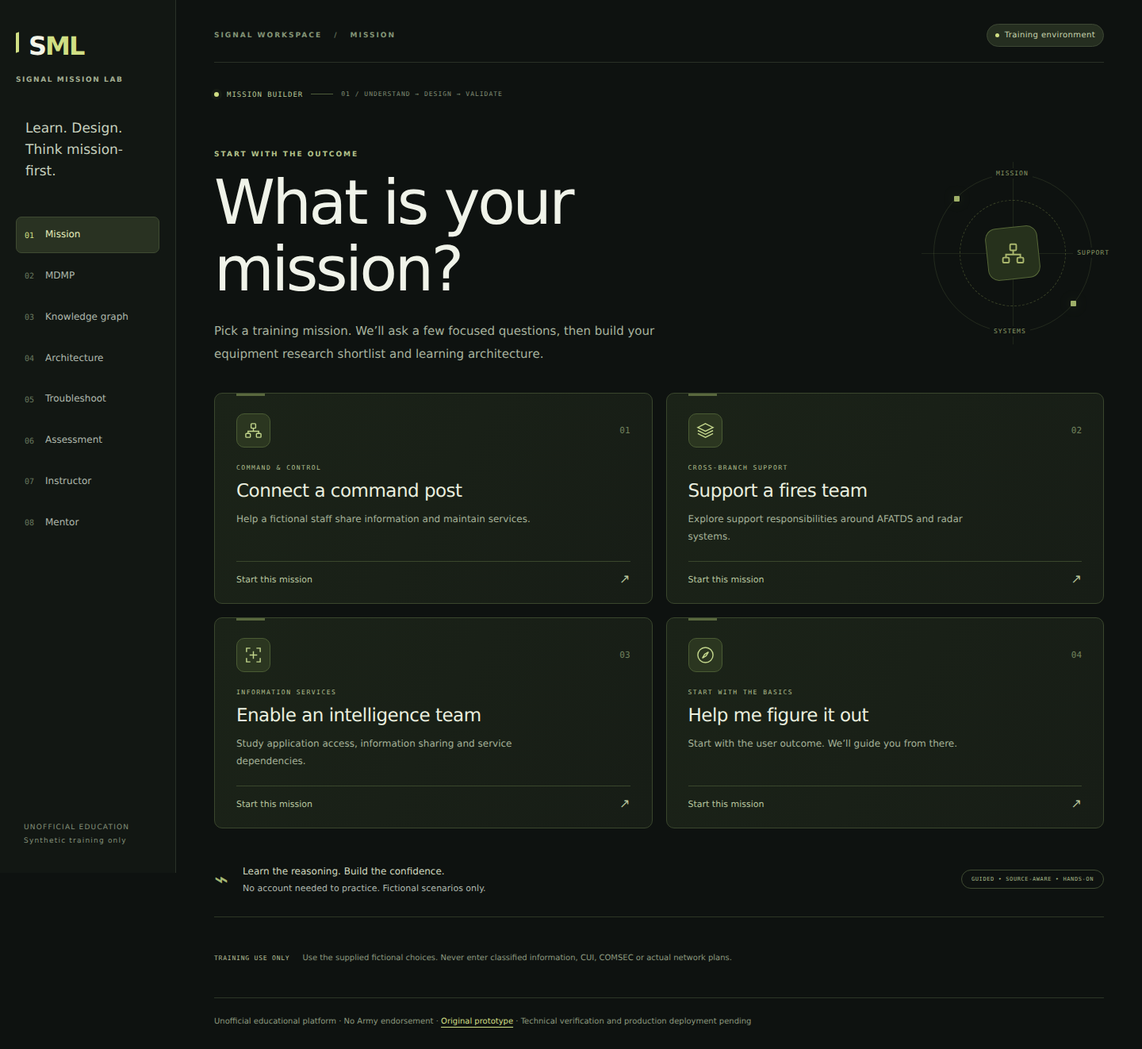
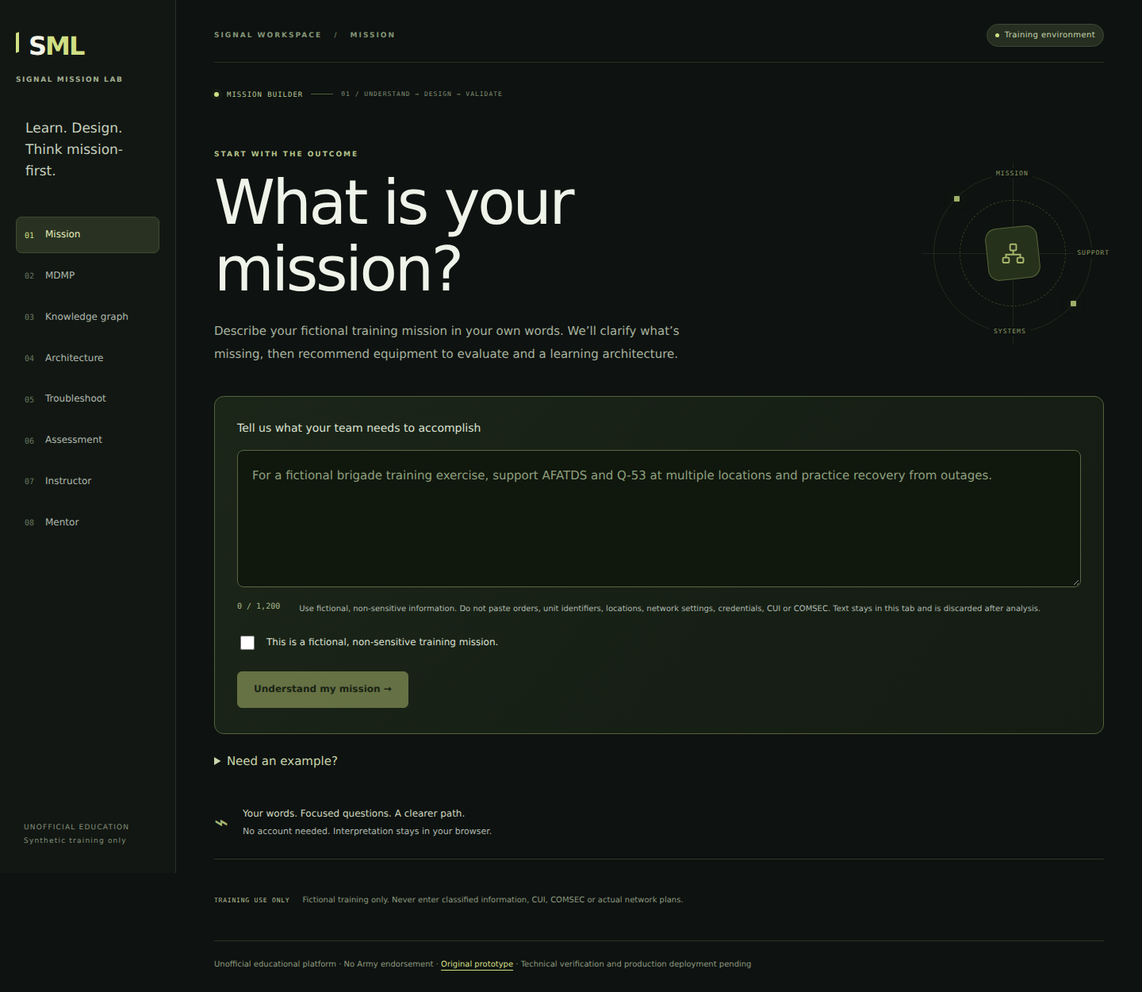
Add text-first mission intake with targeted clarification and local screening

diff --git a/web/src/mission.tsx b/web/src/mission.tsx
@@ -1,6 +1,7 @@
 import React,{useRef,useState} from 'react';
 import catalog from '../../data/catalog.json';
 import {missionOptions,systemChoices,recommendation,type Mission,type Echelon,type Setting,type Priority} from './mission-model';
+import {interpretDescription,screenDescription,nextClarification,type Draft} from './mission-intake';
 
 type Props={onExplore:(id:string)=>void;onArchitecture:()=>void;onMDMP:()=>void};
 function Glyph({kind}:{kind:string}){
@@ -8,26 +9,40 @@ function Glyph({kind}:{kind:string}){
  return <svg viewBox="0 0 24 24" fill="none" stroke="currentColor" strokeWidth="1.5" aria-hidden="true">{paths[kind]||paths.network}</svg>;
 }
 export function MissionGuide({onExplore,onArchitecture,onMDMP}:Props){
- const [stage,setStage]=useState(0),[mission,setMission]=useState<Mission|null>(null),[echelon,setEchelon]=useState<Echelon|null>(null),[systems,setSystems]=useState<string[]>([]),[setting,setSetting]=useState<Setting|null>(null),[priority,setPriority]=useState<Priority|null>(null);
+ const [stage,setStage]=useState(0),[answers,setAnswers]=useState<Draft>({}),[description,setDescription]=useState(''),[attested,setAttested]=useState(false),[error,setError]=useState(''),[inferred,setInferred]=useState(false),[history,setHistory]=useState<number[]>([0]);
+ const {mission=null,echelon=null,systems=[],setting=null,priority=null}=answers;
  const heading=useRef<HTMLHeadingElement>(null);
- function go(next:number){setStage(next);requestAnimationFrame(()=>heading.current?.focus());}
- function chooseMission(next:Mission){if(next!==mission){setSystems([]);setEchelon(null);setSetting(null);setPriority(null);}setMission(next);go(1);}
- function reset(){setMission(null);setEchelon(null);setSystems([]);setSetting(null);setPriority(null);go(0);}
+ function go(next:number){setStage(next);setHistory(previous=>previous[previous.length-1]===next?previous:[...previous,next]);requestAnimationFrame(()=>heading.current?.focus());}
+ function back(){const previous=history.slice(0,-1);setHistory(previous.length?previous:[0]);setStage(previous[previous.length-1]??0);requestAnimationFrame(()=>heading.current?.focus());}
+ function update(patch:Draft){const next={...answers,...patch};setAnswers(next);go(nextClarification(next));}
+ function chooseMission(next:Mission){update({mission:next});}
+ function reset(){setAnswers({});setDescription('');setAttested(false);setInferred(false);setError('');setHistory([0]);setStage(0);requestAnimationFrame(()=>heading.current?.focus());}
+ function analyze(){
+  if(!attested){setError('Confirm that this is fictional, non-sensitive training.');return;}
+  const issue=screenDescription(description);
+  if(issue){setDescription('');setError(issue);return;}
+  const parsed=interpretDescription(description);setDescription('');setAnswers(parsed.answers);setInferred(true);setError('');go(nextClarification(parsed.answers));
+ }
  const selectedMission=missionOptions.find(m=>m.id===mission);
  const result=stage===5&&mission&&echelon&&setting&&priority?recommendation({mission,echelon,systems,setting,priority}):null;
- const titles=['What is your mission?','Who are you supporting?',mission==='fires'?'Which systems are in your exercise?':mission==='explore'?'What do your users need to do?':'Which systems should we study?',mission==='fires'?'How is the fictional fires team distributed?':'What does the training environment look like?','What matters most in this exercise?','Your mission. A clearer path.'];
- const descriptions=['Pick a training mission. We’ll ask a few focused questions, then build your equipment research shortlist and learning architecture.','Choose a fictional echelon to frame staff coordination and learning scope.','Select what your fictional team needs. You can choose more than one.','We’ll adapt the transport and support concepts to the exercise.','Choose a learning priority. This helps focus your validation and troubleshooting.','A starting point for study, discussion and validation—not a field-ready communications plan.'];
+ const titles=['What is your mission?','Who are you supporting?',mission==='fires'?'Which systems are in your exercise?':mission==='explore'?'What do your users need to do?':'Which systems should we study?',mission==='fires'?'How is the fictional fires team distributed?':'What does the training environment look like?','What matters most in this exercise?','Your mission. A clearer path.','What is the primary mission focus?'];
+ const descriptions=['Describe your fictional training mission in your own words. We’ll clarify what’s missing, then recommend equipment to evaluate and a learning architecture.','Choose a fictional echelon to frame staff coordination and learning scope.','Select what your fictional team needs. You can choose more than one.','We’ll adapt the transport and support concepts to the exercise.','Choose a learning priority. This helps focus your validation and troubleshooting.','A starting point for study, discussion and validation—not a field-ready communications plan.','Your description spans several areas or needs more context. Choose the main outcome to guide the recommendations.'];
  return <div className="mission-guide">
  <div className="mission-kicker"><span className="live-dot"/>MISSION BUILDER<span className="kicker-line"/><span>01 / UNDERSTAND → DESIGN → VALIDATE</span></div>
- {stage>0&&<div className="journey"><button className="text-button" onClick={()=>go(stage-1)}>← Back</button><span>{stage===5?'BRIEF READY':`QUESTION ${stage+1} OF 5`}</span><button className="text-button" onClick={reset}>Start over</button></div>}
+ {stage>0&&<div className="journey"><button className="text-button" onClick={back}>← Back</button><span>{stage===5?'BRIEF READY':'CLARIFY YOUR MISSION'}</span><button className="text-button" onClick={reset}>Start over</button></div>}
  <div className="mission-hero"><div><p className="eyebrow">{stage===0?'START WITH THE OUTCOME':selectedMission?.tag}</p><h1 ref={heading} tabIndex={-1}>{titles[stage]}</h1><p className="mission-intro">{descriptions[stage]}</p></div>{stage===0&&<div className="signal-mark" aria-hidden="true"><div className="signal-orbit orbit-one"/><div className="signal-orbit orbit-two"/><div className="signal-center"><Glyph kind="network"/></div><span className="orbit-label label-a">MISSION</span><span className="orbit-label label-b">SYSTEMS</span><span className="orbit-label label-c">SUPPORT</span><i className="orbit-point point-one"/><i className="orbit-point point-two"/></div>}</div>
- {stage>0&&stage<5&&<div className="progress-track" role="progressbar" aria-label="Mission questions" aria-valuemin={0} aria-valuemax={5} aria-valuenow={stage+1}>{[0,1,2,3,4].map(i=><span key={i} className={i<=stage?'filled':''}/>)}</div>}
- {stage===0&&<><div className="mission-options">{missionOptions.map((m,i)=><button className="mission-card" key={m.id} onClick={()=>chooseMission(m.id)}><div className="mission-card-top"><span className="icon-box"><Glyph kind={m.icon}/></span><span className="card-index">0{i+1}</span></div><span className="option-tag">{m.tag}</span><strong>{m.title}</strong><span className="option-detail">{m.detail}</span><span className="card-action">Start this mission <span>↗</span></span></button>)}</div><div className="home-footnote"><span className="mini-chevron">⌁</span><div><strong>Learn the reasoning. Build the confidence.</strong><p>No account needed to practice. Fictional scenarios only.</p></div><span className="pill-outline">GUIDED • SOURCE-AWARE • HANDS-ON</span></div></>}
- {stage===1&&<div className="answer-options">{[{id:'battalion',title:'Battalion',detail:'Study users, local support and coordination with higher headquarters.'},{id:'brigade',title:'Brigade',detail:'Study coordination across a fictional headquarters and subordinate teams.'},{id:'division',title:'Division',detail:'Study broader staff coordination and shared-service dependencies.'}].map(o=><button key={o.id} className="answer-card" aria-pressed={echelon===o.id} onClick={()=>{setEchelon(o.id as Echelon);go(2);}}><span className="answer-symbol">{o.id==='battalion'?'Ⅱ':o.id==='brigade'?'×':'××'}</span><strong>{o.title}</strong><span>{o.detail}</span><b>→</b></button>)}</div>}
- {stage===2&&mission&&<><div className="answer-options">{systemChoices[mission].map(o=><button className="answer-card" key={o.id} aria-pressed={systems.includes(o.id)} onClick={()=>setSystems(systems.includes(o.id)?systems.filter(s=>s!==o.id):[...systems,o.id])}><span className="selection-dot">{systems.includes(o.id)?'✓':'+'}</span><strong>{o.title}</strong><span>{o.detail}</span></button>)}</div><div className="wizard-actions"><span>{systems.length} selected</span><button className="primary-button" disabled={!systems.length} onClick={()=>go(3)}>Continue <span>→</span></button></div></>}
- {stage===3&&<div className="answer-options">{[{id:'single',title:'One training location',detail:'Focus on local application, network and user-access dependencies.'},{id:'distributed',title:'Multiple fictional locations',detail:'Add inter-site transport concepts and support coordination.'},{id:'disrupted',title:'Services will be interrupted',detail:'Explore recovery, dependencies and alternate communications categories.'}].map(o=><button className="answer-card" key={o.id} aria-pressed={setting===o.id} onClick={()=>{setSetting(o.id as Setting);go(4);}}><span className="selection-dot">→</span><strong>{o.title}</strong><span>{o.detail}</span></button>)}</div>}
- {stage===4&&<div className="answer-options">{[{id:'availability',title:'Keep services usable',detail:'Focus on an observable user outcome and service health.'},{id:'access',title:'Get the right users connected',detail:'Focus on identity, authorized access and application support.'},{id:'continuity',title:'Recover when something fails',detail:'Focus on restoration evidence and continuity concepts.'}].map(o=><button className="answer-card" key={o.id} aria-pressed={priority===o.id} onClick={()=>{setPriority(o.id as Priority);go(5);}}><span className="selection-dot">→</span><strong>{o.title}</strong><span>{o.detail}</span></button>)}</div>}
+ {inferred&&stage!==0&&<div className="intake-readback"><strong>Our understanding</strong><p>{[selectedMission?.title,echelon?echelon[0].toUpperCase()+echelon.slice(1):null,systems.length?systems.map(id=>catalog.equipment.find(e=>e.id===id)?.name||id).join(' · '):null,setting?({single:'One location',distributed:'Multiple locations',disrupted:'Interrupted services'}[setting]):null,priority?({availability:'Service availability',access:'Authorized access',continuity:'Recovery and continuity'}[priority]):null].filter(Boolean).join(' / ')||'We need a little more detail.'}</p><span>Local rule-based interpretation. Check the details before relying on the learning brief.</span><div className="steps"><button onClick={()=>go(6)}>Change focus</button><button onClick={()=>go(1)}>Change echelon</button><button onClick={()=>go(2)}>Change systems</button><button onClick={()=>go(3)}>Change environment</button><button onClick={()=>go(4)}>Change priority</button></div></div>}
+ {stage===0&&<><section className="mission-intake"><label htmlFor="mission-description">Tell us what your team needs to accomplish</label><textarea id="mission-description" value={description} maxLength={1200} rows={5} autoComplete="off" spellCheck={false} placeholder="For a fictional brigade training exercise, support AFATDS and Q-53 at multiple locations and practice recovery from outages." onChange={e=>{setDescription(e.target.value);setError('');}} aria-describedby="mission-privacy"/><div className="intake-meta"><span>{description.length} / 1,200</span><p id="mission-privacy">Use fictional, non-sensitive information. Do not paste orders, unit identifiers, locations, network settings, credentials, CUI or COMSEC. Text stays in this tab and is discarded after analysis.</p></div><label className="toggle"><input type="checkbox" checked={attested} onChange={e=>setAttested(e.target.checked)}/>This is a fictional, non-sensitive training mission.</label>{error&&<p role="alert">{error}</p>}<button className="primary-button" disabled={!attested||description.trim().length<12} onClick={analyze}>Understand my mission →</button></section><details className="mission-examples"><summary>Need an example?</summary>{[
+ ['Command post','For a fictional battalion exercise, support CPCE at one training location and focus on user access.'],
+ ['Fires team','For a fictional brigade training exercise, support AFATDS and Q-53 at multiple locations and practice recovery from outages.'],
+ ['Intelligence team','For a fictional division exercise, study DCGS-A at one location and focus on authentication.']
+ ].map(([title,text])=><button key={title} onClick={()=>{setDescription(text);setAttested(false);setError('');}}>{title} example</button>)}</details><div className="home-footnote"><span className="mini-chevron">⌁</span><div><strong>Your words. Focused questions. A clearer path.</strong><p>No account needed. Interpretation stays in your browser.</p></div></div></>}
+ {stage===6&&<div className="mission-options">{missionOptions.map((m,i)=><button className="mission-card" key={m.id} onClick={()=>chooseMission(m.id)}><div className="mission-card-top"><span className="icon-box"><Glyph kind={m.icon}/></span><span className="card-index">0{i+1}</span></div><strong>{m.title}</strong><span className="option-detail">{m.detail}</span></button>)}</div>}
+ {stage===1&&<div className="answer-options">{[{id:'battalion',title:'Battalion',detail:'Study users, local support and coordination with higher headquarters.'},{id:'brigade',title:'Brigade',detail:'Study coordination across a fictional headquarters and subordinate teams.'},{id:'division',title:'Division',detail:'Study broader staff coordination and shared-service dependencies.'}].map(o=><button key={o.id} className="answer-card" aria-pressed={echelon===o.id} onClick={()=>{update({echelon:o.id as Echelon});}}><span className="answer-symbol">{o.id==='battalion'?'Ⅱ':o.id==='brigade'?'×':'××'}</span><strong>{o.title}</strong><span>{o.detail}</span><b>→</b></button>)}</div>}
+ {stage===2&&mission&&<><div className="answer-options">{[...systemChoices[mission],...Object.values(systemChoices).flat().filter((o,index,all)=>!systemChoices[mission].some(s=>s.id===o.id)&&all.findIndex(x=>x.id===o.id)===index)].map(o=><button className="answer-card" key={o.id} aria-pressed={systems.includes(o.id)} onClick={()=>setAnswers({...answers,systems:systems.includes(o.id)?systems.filter(s=>s!==o.id):[...systems,o.id]})}><span className="selection-dot">{systems.includes(o.id)?'✓':'+'}</span><strong>{o.title}</strong><span>{o.detail}</span></button>)}</div><div className="wizard-actions"><span>{systems.length} selected</span><button className="text-button" onClick={()=>update({systems:[systemChoices[mission][0].id]})}>Suggest a starting point</button><button className="primary-button" disabled={!systems.length} onClick={()=>update({systems})}>Continue <span>→</span></button></div></>}
+ {stage===3&&<div className="answer-options">{[{id:'single',title:'One training location',detail:'Focus on local application, network and user-access dependencies.'},{id:'distributed',title:'Multiple fictional locations',detail:'Add inter-site transport concepts and support coordination.'},{id:'disrupted',title:'Services will be interrupted',detail:'Explore recovery, dependencies and alternate communications categories.'}].map(o=><button className="answer-card" key={o.id} aria-pressed={setting===o.id} onClick={()=>{update({setting:o.id as Setting});}}><span className="selection-dot">→</span><strong>{o.title}</strong><span>{o.detail}</span></button>)}</div>}
+ {stage===4&&<div className="answer-options">{[{id:'availability',title:'Keep services usable',detail:'Focus on an observable user outcome and service health.'},{id:'access',title:'Get the right users connected',detail:'Focus on identity, authorized access and application support.'},{id:'continuity',title:'Recover when something fails',detail:'Focus on restoration evidence and continuity concepts.'}].map(o=><button className="answer-card" key={o.id} aria-pressed={priority===o.id} onClick={()=>{update({priority:o.id as Priority});}}><span className="selection-dot">→</span><strong>{o.title}</strong><span>{o.detail}</span></button>)}</div>}
  {result&&<div className="mission-results"><div className="brief-banner"><div><span className="option-tag">SYNTHETIC MISSION BRIEF</span><h3>{selectedMission?.title}</h3><p>{result.summary}</p></div><div><small>LEARNING PRIORITY</small><strong>{result.emphasis}</strong></div></div><div className="result-columns"><section><div className="section-label"><span>01</span><h3>Equipment to evaluate</h3></div><p>Selected systems and teaching categories, with a reason for each.</p><div className="equipment-shortlist">{result.equipment.map((item,i)=>{const e=catalog.equipment.find(e=>e.id===item.id)!;return <article key={item.id}><div className="shortlist-heading"><span className="shortlist-number">0{i+1}</span><div><h4>{e.name}</h4><small>{e.category}</small></div><span className="status-tag">{item.id==='q53'?'Purpose source available':'Overview only'}</span></div><p>{item.reason}</p><button className="text-button" onClick={()=>onExplore(item.id)}>Review evidence & unknowns ↗</button></article>})}</div><p className="muted">No quantities, models, settings or compatibility claims are inferred.</p></section><section className="architecture-preview"><div className="section-label"><span>02</span><h3>Your learning architecture</h3></div><p>Generic layers to investigate—not equipment interconnection instructions.</p><div className="architecture-stack" role="img" aria-label={'Conceptual dependency model: '+result.services.map(s=>s.title+': '+s.detail).join('; ')}>{result.services.map((s,i)=><React.Fragment key={s.title}>{i>0&&<div className="stack-link" aria-hidden="true">↑</div>}<div className={'stack-node stack-'+i}><span className="stack-code">L0{i+1}</span><div><strong>{s.title}</strong><span>{s.detail}</span></div><span className="node-light"/></div></React.Fragment>)}</div>{systems.includes('q53')&&<div className="unknown-note"><strong>Radar interface: unverified</strong><p>AN/TPQ-53 remains a supported-system study topic. No radar-to-application link is represented.</p></div>}<button className="primary-button" onClick={onArchitecture}>Test service dependencies →</button></section></div><section><div className="section-label"><span>03</span><h3>Validate before you decide</h3></div><div className="review-questions">{result.questions.map((q,i)=><div key={q}><span>0{i+1}</span><p>{q}</p></div>)}</div><details><summary>Recommendation scope and limitations</summary><ul>{result.limitations.map(x=><li key={x}>{x}</li>)}</ul></details><button className="text-button" onClick={onMDMP}>Take this reasoning into MDMP practice →</button></section></div>}
- <div className="training-boundary"><span>TRAINING USE ONLY</span><p>Use the supplied fictional choices. Never enter classified information, CUI, COMSEC or actual network plans.</p></div>
+ <div className="training-boundary"><span>TRAINING USE ONLY</span><p>Fictional training only. Never enter classified information, CUI, COMSEC or actual network plans.</p></div>
  </div>;
 }

diff --git a/web/src/mission-intake.ts b/web/src/mission-intake.ts
@@ -1,0 +1,52 @@
+/** Local, bounded language matching for fictional training. Not an LLM or a DLP system. */
+import type {Answers,Mission,Echelon,Setting,Priority} from './mission-model';
+export type Draft=Partial<Answers>;
+export type Field=keyof Answers;
+export type Intake={answers:Draft;ambiguous:Field[]};
+export function screenDescription(text:string):string|null{
+ const value=text.normalize('NFKC');
+ if(value.length<12||value.length>1200)return 'Use between 12 and 1,200 characters to describe a fictional training outcome.';
+ if(/[\u0000-\u0008\u000b\u000c\u000e-\u001f\u202a-\u202e\u2066-\u2069]/u.test(value))return 'Remove control or hidden formatting characters.';
+ const restricted=[/\b(?:CUI|COMSEC|SIPR(?:NET)?|JWICS|TOP\s*SECRET|SECRET|CONFIDENTIAL|NOFORN|FOUO|OPORD)\b/i,/\b(?:password|passwd|api[_ -]?key|private[_ -]?key|bearer|credential)\b/i,/\b(?:\d{1,3}\.){3}\d{1,3}\b/,/\b(?:[a-f\d]{1,4}:){2,}[a-f\d:]*\b/i,/\b\d+(?:\.\d+)?\s*(?:MHz|GHz|kHz)\b/i,/[+-]?\d{1,3}\.\d{3,}\s*[,/]\s*[+-]?\d{1,3}\.\d{3,}/,/\b\d{1,2}[C-HJ-NP-X]\s*[A-HJ-NP-Z]{2}\s*\d{4,10}\b/i,/\b(?:actual|real|live)\s+(?:operational\s+)?(?:mission|operation|network|deployment|unit)\b/i,/\b(?:ignore\s+(?:all\s+)?(?:previous|prior|system)|system\s*prompt|bypass\s+(?:rules|safeguards))\b/i,/https?:\/\//i];
+ return restricted.some(pattern=>pattern.test(value))?'This may contain sensitive details or unsupported instructions. The text was cleared. Use a fictional outcome without unit identifiers, operational plans, addresses, frequencies, credentials or controlled material.':null;
+}
+function positive(text:string,expression:RegExp):boolean{
+ for(const match of text.matchAll(new RegExp(expression.source,'gi'))){
+  const before=text.slice(Math.max(0,match.index!-45),match.index);
+  if(!/\b(?:no|not|without|excluding|exclude|don['’]t|do not)\b[^,.;!?]{0,32}$/i.test(before))return true;
+ }
+ return false;
+}
+export function interpretDescription(text:string):Intake{
+ const issue=screenDescription(text);if(issue)throw Error(issue);
+ const value=text.normalize('NFKC');const answers:Draft={};const ambiguous:Field[]=[];
+ const systems=[['afatds',/\bAFATDS\b/],['q53',/\b(?:AN[\s/-]*)?(?:TPQ|Q)[\s-]*53\b/],['dcgsa',/\bDCGS[\s-]*A\b/],['cpce',/\bCPCE\b/],['radio',/\b(?:radios?|voice communication)\b/]].filter(([,pattern])=>positive(value,pattern as RegExp)).map(([id])=>id as string);
+ if(systems.length)answers.systems=systems;
+ const domains:Mission[]=[];
+ if(systems.includes('afatds')||systems.includes('q53')||positive(value,/\b(?:artillery|fires|radar)\b/))domains.push('fires');
+ if(systems.includes('dcgsa')||positive(value,/\b(?:intelligence|intel)\b/))domains.push('intelligence');
+ if(!domains.length&&(systems.includes('cpce')||systems.includes('radio')||positive(value,/\b(?:command post|headquarters|staff communications)\b/)))domains.push('command');
+ if(domains.length===1)answers.mission=domains[0];else if(domains.length>1)ambiguous.push('mission');
+ const levelPatterns:Record<Echelon,RegExp>={battalion:/\b(?:battalions?|bn)\b/,brigade:/\b(?:brigades?|bde)\b/,division:/\b(?:divisions?|div)\b/};
+ const levels=(Object.keys(levelPatterns) as Echelon[]).filter(level=>positive(value,levelPatterns[level]));
+ if(levels.length===1)answers.echelon=levels[0];else if(levels.length>1)ambiguous.push('echelon');
+ const locations:Setting[]=[];
+ if(positive(value,/\b(?:one|single)\s+(?:training\s+|fictional\s+)?(?:site|location|command post)\b/))locations.push('single');
+ if(positive(value,/\b(?:multiple|several|distributed|two|three)\s+(?:fictional\s+|training\s+)?(?:sites|locations|command posts)\b|\bacross sites\b/))locations.push('distributed');
+ if(locations.length===1)answers.setting=locations[0];else if(locations.length>1)ambiguous.push('setting');
+ else if(positive(value,/\b(?:degraded|interrupted|disruption|simulated outage)\b/))answers.setting='disrupted';
+ const priorities:Priority[]=[];
+ if(positive(value,/\b(?:availability|uptime|keep services (?:usable|available)|service health)\b/))priorities.push('availability');
+ if(positive(value,/\b(?:identity|authorization|authentication|login|sign[ -]?in|user access)\b/))priorities.push('access');
+ if(positive(value,/\b(?:recover(?:y)?|restore|restoration|continuity|failover|fallback|outages?)\b/))priorities.push('continuity');
+ if(priorities.length===1)answers.priority=priorities[0];else if(priorities.length>1)ambiguous.push('priority');
+ return {answers,ambiguous};
+}
+export function nextClarification(answers:Draft):number{
+ if(!answers.mission)return 6;
+ if(!answers.echelon)return 1;
+ if(!answers.systems?.length)return 2;
+ if(!answers.setting)return 3;
+ if(!answers.priority)return 4;
+ return 5;
+}

diff --git a/web/src/style.css b/web/src/style.css
@@ -6,3 +6,6 @@
 @media(max-width:760px){.rail{position:static;width:100%;padding:17px 20px;border-right:0;border-bottom:1px solid #34402a}.brand{font-size:25px}.brand:before{top:6px;height:22px}.rail>.eyebrow,.rail-copy,.rail small{display:none}.rail nav{display:flex;overflow-x:auto;margin-top:15px;padding-bottom:3px;gap:6px}.rail button{flex-shrink:0;font-size:11px;padding:9px 10px;white-space:nowrap}.rail button span{width:20px}main{margin-left:0;padding:22px 20px 12px}.mission-header{margin-bottom:27px}.mission-header>.eyebrow{font-size:8px}.badge{font-size:8px}.mission-header .heading>.badge{font-size:7px;white-space:nowrap}.mission-kicker>span:last-child{display:none}.mission-hero{padding:34px 0 30px}.mission-hero h1{font-size:51px;letter-spacing:-2.4px;max-width:520px}.signal-mark{display:none}.mission-intro{font-size:13px;line-height:1.9}.mission-options{gap:13px}.mission-card{padding:21px 20px}.mission-card>strong{font-size:21px}.mission-card-top{margin-bottom:18px}.mission-card .option-detail{font-size:11px;min-height:64px}.option-tag{font-size:7px}.training-boundary{display:block}.training-boundary p{margin-top:6px}.home-footnote{margin:25px 0 15px;padding-bottom:20px;gap:12px}.home-footnote strong{font-size:11px}.home-footnote p{font-size:10px}.answer-options{grid-template-columns:1fr}.answer-card{min-height:180px}.journey{padding-top:18px}.brief-banner{display:block;padding:20px}.brief-banner>div:last-child{margin-top:20px;text-align:left;max-width:none}.result-columns>section{padding:18px}.review-questions{grid-template-columns:1fr}.graph-layout{grid-template-columns:1fr}.system-list{grid-template-columns:repeat(2,minmax(0,1fr))}section{padding:20px}.page-header h1{font-size:30px}.heading{gap:10px}table{font-size:11px}td,th{padding:11px 5px}footer{font-size:9px}.account-id{font-size:10px}.learning-account{padding:16px}}
 @media(max-width:440px){.mission-options{grid-template-columns:1fr}.mission-card{padding:20px 23px}.mission-card-top{margin-bottom:15px}.mission-card .option-detail{min-height:0;font-size:12px}.mission-card>strong{font-size:23px}.card-action{margin-top:17px}.mission-hero h1{font-size:49px}.mission-header .heading>.badge{font-size:6px;padding:5px 7px}.mission-header>.eyebrow{font-size:7px;letter-spacing:1px}.training-boundary{font-size:9px}}
 @media(prefers-reduced-motion:reduce){*,*:before,*:after{transition:none!important;scroll-behavior:auto!important}}
+.mission-intake{background:linear-gradient(130deg,#1b2518,#141c13);border-color:#53633c;padding:28px;margin:4px 0 22px}.mission-intake label{margin-top:0;font-size:14px}.mission-intake textarea{resize:vertical;width:100%;min-height:145px;max-height:360px;border:1px solid #586847;background:#10170d;border-radius:8px;padding:18px;color:#edf1e2;line-height:1.8;font-family:inherit;font-size:15px}.mission-intake textarea::placeholder{color:#8fa07e}.intake-meta{display:flex;gap:24px;margin:10px 0 22px}.intake-meta>span{white-space:nowrap;font:10px ui-monospace,monospace;color:#a9b98a}.intake-meta p{font-size:10px;margin:0;line-height:1.8}.mission-intake .toggle{font-size:12px;margin:20px 0}.mission-intake [role=alert]{color:#f4b4a5;font-size:12px}.intake-readback{border:1px solid #475837;background:#1b2818;border-radius:8px;padding:18px 20px;margin:0 0 24px}.intake-readback>strong{font-size:12px;color:#d4e4aa}.intake-readback p{font-size:13px;color:#c3d4ab;margin:8px 0}.intake-readback>span{font-size:10px;color:#a6b593}.intake-readback .steps{margin-top:10px}.intake-readback button{font-size:10px;padding:7px 10px}.mission-examples{margin:15px 0 20px;border:0;padding:0}.mission-examples button{font-size:11px;margin-top:15px}@media(max-width:760px){.mission-intake{padding:20px}.intake-meta{display:block}.intake-meta p{margin-top:10px}.mission-intake textarea{font-size:16px}.intake-readback{padding:16px}}
+
+@media(max-width:760px){.mission-guide .wizard-actions{flex-wrap:wrap;gap:12px}.intake-readback .steps{gap:5px}}

diff --git a/web/src/mission-model.ts b/web/src/mission-model.ts
@@ -18,8 +18,8 @@ export const systemChoices:Record<Mission,{id:string;title:string;detail:string}
 };
 export function validateAnswers(value:Answers):void{
  if(!missionOptions.some(m=>m.id===value.mission)||!['battalion','brigade','division'].includes(value.echelon)||!['single','distributed','disrupted'].includes(value.setting)||!['availability','access','continuity'].includes(value.priority))throw Error('Choose a supplied fictional training option.');
- const permitted=systemChoices[value.mission].map(s=>s.id);
- if(!value.systems.length||value.systems.length>3||new Set(value.systems).size!==value.systems.length||value.systems.some(s=>!permitted.includes(s)))throw Error('Choose systems within this training mission.');
+ const permitted=['afatds','q53','dcgsa','cpce','radio'];
+ if(!value.systems.length||value.systems.length>5||new Set(value.systems).size!==value.systems.length||value.systems.some(s=>!permitted.includes(s)))throw Error('Choose supported systems for this training mission.');
 }
 export function recommendation(value:Answers){
  validateAnswers(value);
@@ -30,10 +30,10 @@ export function recommendation(value:Answers){
   id==='jnn'||id==='cpn'?'Compare transport-node families while studying a distributed exercise. Variant suitability is unknown.':
   id==='radio'&&!value.systems.includes(id)?'Study an alternate communications category for the synthetic interruption exercise.':
   id==='q53'?'Include radar operators and maintainers in the learning discussion. Signal support does not establish radar interfaces.':
-  'Included because you selected this application or communications outcome.'}));
+  'Candidate for the described training outcome; confirm its relevance with the supported system owner.'}));
  const emphasis=value.priority==='access'?'Identity and authorized access':value.priority==='continuity'?'Recovery and alternate service concepts':'End-to-end service availability';
  const services=[
-  {title:'User outcome',detail:systems.filter(s=>s!=='q53').map(s=>systemChoices[value.mission].find(x=>x.id===s)?.title||s).join(' · ')||'Supported application and users'},
+  {title:'User outcome',detail:systems.filter(s=>s!=='q53').map(s=>Object.values(systemChoices).flat().find(x=>x.id===s)?.title||s).join(' · ')||'Supported application and users'},
   {title:'Supporting services',detail:value.priority==='access'?'Identity · authorization · application health':'Application health · identity · name resolution'},
   {title:'Transport concepts',detail:value.setting==='single'?'Local network · switching · cabling':'Local network · inter-site transport · service reachability'},
   {title:'Support foundation',detail:value.setting==='disrupted'?'Power · maintenance · recovery rehearsal':'Power · maintenance · responsible owners'}

diff --git a/docs/UI_MISSION_FLOW.md b/docs/UI_MISSION_FLOW.md
@@ -1,25 +1,25 @@
-# Mission-first UI update — 18 October 2026
+# Text-first mission flow — 18 October 2026
 
-## Experience
+The charcoal/olive homepage asks **What is your mission?** and accepts a short fictional training description. Users confirm that it contains only fictional, non-sensitive information. Examples fill the text box without automatically submitting it.
 
-The default screen now asks **What is your mission?** Four starting paths cover command-post support, fires-team support, intelligence-team support and an exploratory beginner route. The interface uses charcoal surfaces, olive accents, Signal-inspired line icons and restrained echelon symbols. No camouflage, combat imagery, remote fonts or third-party styles are used.
+## Interpretation and clarification
 
-A five-question guide collects supplied fictional choices for mission, echelon, systems/outcomes, exercise environment and learning priority. The questions branch for fires and beginner paths. System choices are required, multiple selections are supported, back/start-over controls are available, and the current brief survives navigation to other learning areas within the open page. Reload starts a new local guide; answers are not uploaded or persisted.
+A local, deterministic interpreter recognizes supported mission categories, echelons, system names, environment descriptions and learning priorities. Clear information is reused. Missing or conflicting fields trigger targeted follow-up questions; a sufficiently complete description goes directly to recommendations. The readback shows the interpreted fields and lets users correct any of them.
 
-## Results
+This is a bounded rule-based feature, not general-purpose natural-language understanding or a generative model. Unrecognized requests need clarification and may be mapped only to the supported training categories. Mixed fires/intelligence descriptions retain their named systems while asking for a primary focus. Negated system names are excluded where the rule can recognize the negation. Complex language, indirect references and unfamiliar synonyms can still be misunderstood; users must review the readback.
 
-- Selected applications or system categories appear with a reason for inclusion and links to source/unknowns profiles.
-- Distributed scenarios add JNN/WIN-T and CPN as transport-family comparison topics; disrupted scenarios add a radio category. These are educational research candidates, not recommended allocations, purchases or verified variants.
-- A conceptual layer model groups user outcomes, supporting services, transport concepts and support foundations. It varies with the answers and links to the service-dependency simulator.
-- Radar is explicitly excluded from implied application links. No AN/TPQ-53 interface is established by the diagram. Echelon selection does not infer equipment quantities or force structure.
-- Validation questions adapt to mission, environment and priority. The flow links to MDMP practice for further learning.
+Users who do not know the systems can request a suggested study starting point. This proposes a catalog research candidate, not an operational allocation. Results explain equipment candidates, service-dependency layers and validation questions. Interface, version, quantity and real-world suitability remain unverified. Radar is not drawn as an established application connection.
 
-The guide has no free-text planning intake, coordinates, network addressing, frequency fields or upload interface. The short training boundary remains visible. Existing doctrine, source provenance, assessments, troubleshooting, persistent instructor/learner workflows and the original `/legacy/` application remain available.
+## Privacy and safeguards
+
+Raw descriptions stay in component memory in the current browser tab. They are cleared after analysis, rejection or reset and are never sent to the API, placed in URLs, saved to browser storage or included in saved learning records. The retained brief contains only bounded, recognized categories. Reload clears it. In-page navigation preserves the bounded brief.
+
+The text box is limited to 1,200 characters. Screening rejects common classification/control markers, credentials, IP addresses, coordinates, frequencies, operational-plan indicators, hidden controls, external URLs and common instruction-override patterns. Rejected text is cleared without being echoed. Rendering uses React text nodes, not raw HTML, and the interpreter executes no instructions or external calls.
+
+Screening is heuristic and cannot identify every sensitive item or real operational plan. It is not a DLP or classification system. The user confirmation and explicit fictional-training boundary remain required; do not enter classified information, CUI, COMSEC, actual unit identifiers or real network plans.
 
 ## Validation
 
-Five deterministic model tests cover candidate selection, unknown-interface limits, environment/priority branches, input validation and the beginner route. Strict TypeScript and Vite build pass. Browser journeys cover a fires recommendation, beginner route, required-answer gating, reset, preservation across navigation, source/simulator links and 390px mobile overflow checks. Existing training and connected account workflows are also tested after the theme update.
+Unit tests cover full descriptions, skipped questions, missing/ambiguous information, mixed systems, negations, numeric false positives, rejected sensitive examples and instruction overrides, plus the existing recommendation rules. Browser tests cover direct recommendations, targeted follow-ups, corrections/navigation, rejection/clearing, absence of raw-text persistence, beginner guidance and mobile overflow. Existing learning and connected-account journeys remain in CI.
 
-Screenshots: `docs/screenshots/mission-home.png`, `mission-questions.png`, `mission-recommendation.png`, `mission-home-mobile.png`, and `mission-result-mobile.png`. These use supplied fictional scenarios only. See the latest PR checks for full CI results.
-
-Remaining limits: no generative recommendations, no verified version-specific equipment configuration, no equipment counts, no operational connectivity plan and no production-readiness claim. Publication and SME review gates remain unchanged.
+Screenshots in `docs/screenshots/mission-home.png`, `mission-questions.png`, `mission-recommendation.png`, `mission-home-mobile.png` and `mission-result-mobile.png` use synthetic descriptions. Latest CI results are available in PR #1.

diff --git a/SECURITY.md b/SECURITY.md
@@ -32,3 +32,6 @@ The root static prototype remains unchanged. The new React app has no uploads or
 
 ## Persistent learning milestone (18 October 2026)
 Authenticated persistent learning now exists as an optional same-origin service. Credentials are high-entropy, short-lived, hashed at rest and administrator-issued; browsers retain them in memory only. Server ownership/membership checks, bounded structured submissions, parameterized SQL, schema constraints, quotas, HTTPS/host checks, minimal audits and restricted DB grants are implemented. SQLite is test-only; deployment PostgreSQL requires verify-full TLS. See `docs/PERSISTENCE_REPORT.md` and `deploy/ACCOUNTS.md` for exact limits. OIDC/MFA, distributed edge controls and real-host deployment verification remain release gates. Earlier no-account/no-database notes describe the historical static milestone.
+
+## Text-first mission intake (18 October 2026)
+The new mission guide now accepts at most 1,200 characters of fictional training description in browser memory only. It requires non-sensitive-fictional confirmation, screens common sensitive markers and instruction overrides, discards raw text after analysis/rejection, retains only bounded recognized categories and makes no API/model calls. React text rendering and CSP remain in place. The screen is heuristic, cannot detect all controlled information and must never be represented as DLP or a classification guarantee. Earlier no-free-text notes describe prior milestones. See `docs/UI_MISSION_FLOW.md` for scope and privacy behavior.

diff --git a/README.md b/README.md
@@ -46,6 +46,6 @@ Connected screenshots: [instructor cohort](docs/screenshots/connected-instructor
 
 ## Mission-first guided workspace
 
-The homepage asks **What is your mission?** and branches through five questions into an explained equipment research shortlist, conceptual architecture and validation questions. See [UI and mission-flow details](docs/UI_MISSION_FLOW.md). Guidance stays local and uses supplied fictional choices. Equipment interfaces and suitability are never inferred.
+The homepage asks **What is your mission?** Users enter a fictional training description; a local rule-based interpreter asks for missing or ambiguous details before producing an explained equipment research shortlist, conceptual architecture and validation questions. See [UI and mission-flow details](docs/UI_MISSION_FLOW.md). Raw text stays local and is discarded after analysis. Users can review and correct the recognized fields; sensitive-content screening is heuristic, not a classification guarantee. Equipment interfaces and suitability are never inferred.
 
 [New homepage](docs/screenshots/mission-home.png) · [Guided questions](docs/screenshots/mission-questions.png) · [Mission brief](docs/screenshots/mission-recommendation.png) · [Mobile](docs/screenshots/mission-home-mobile.png)
